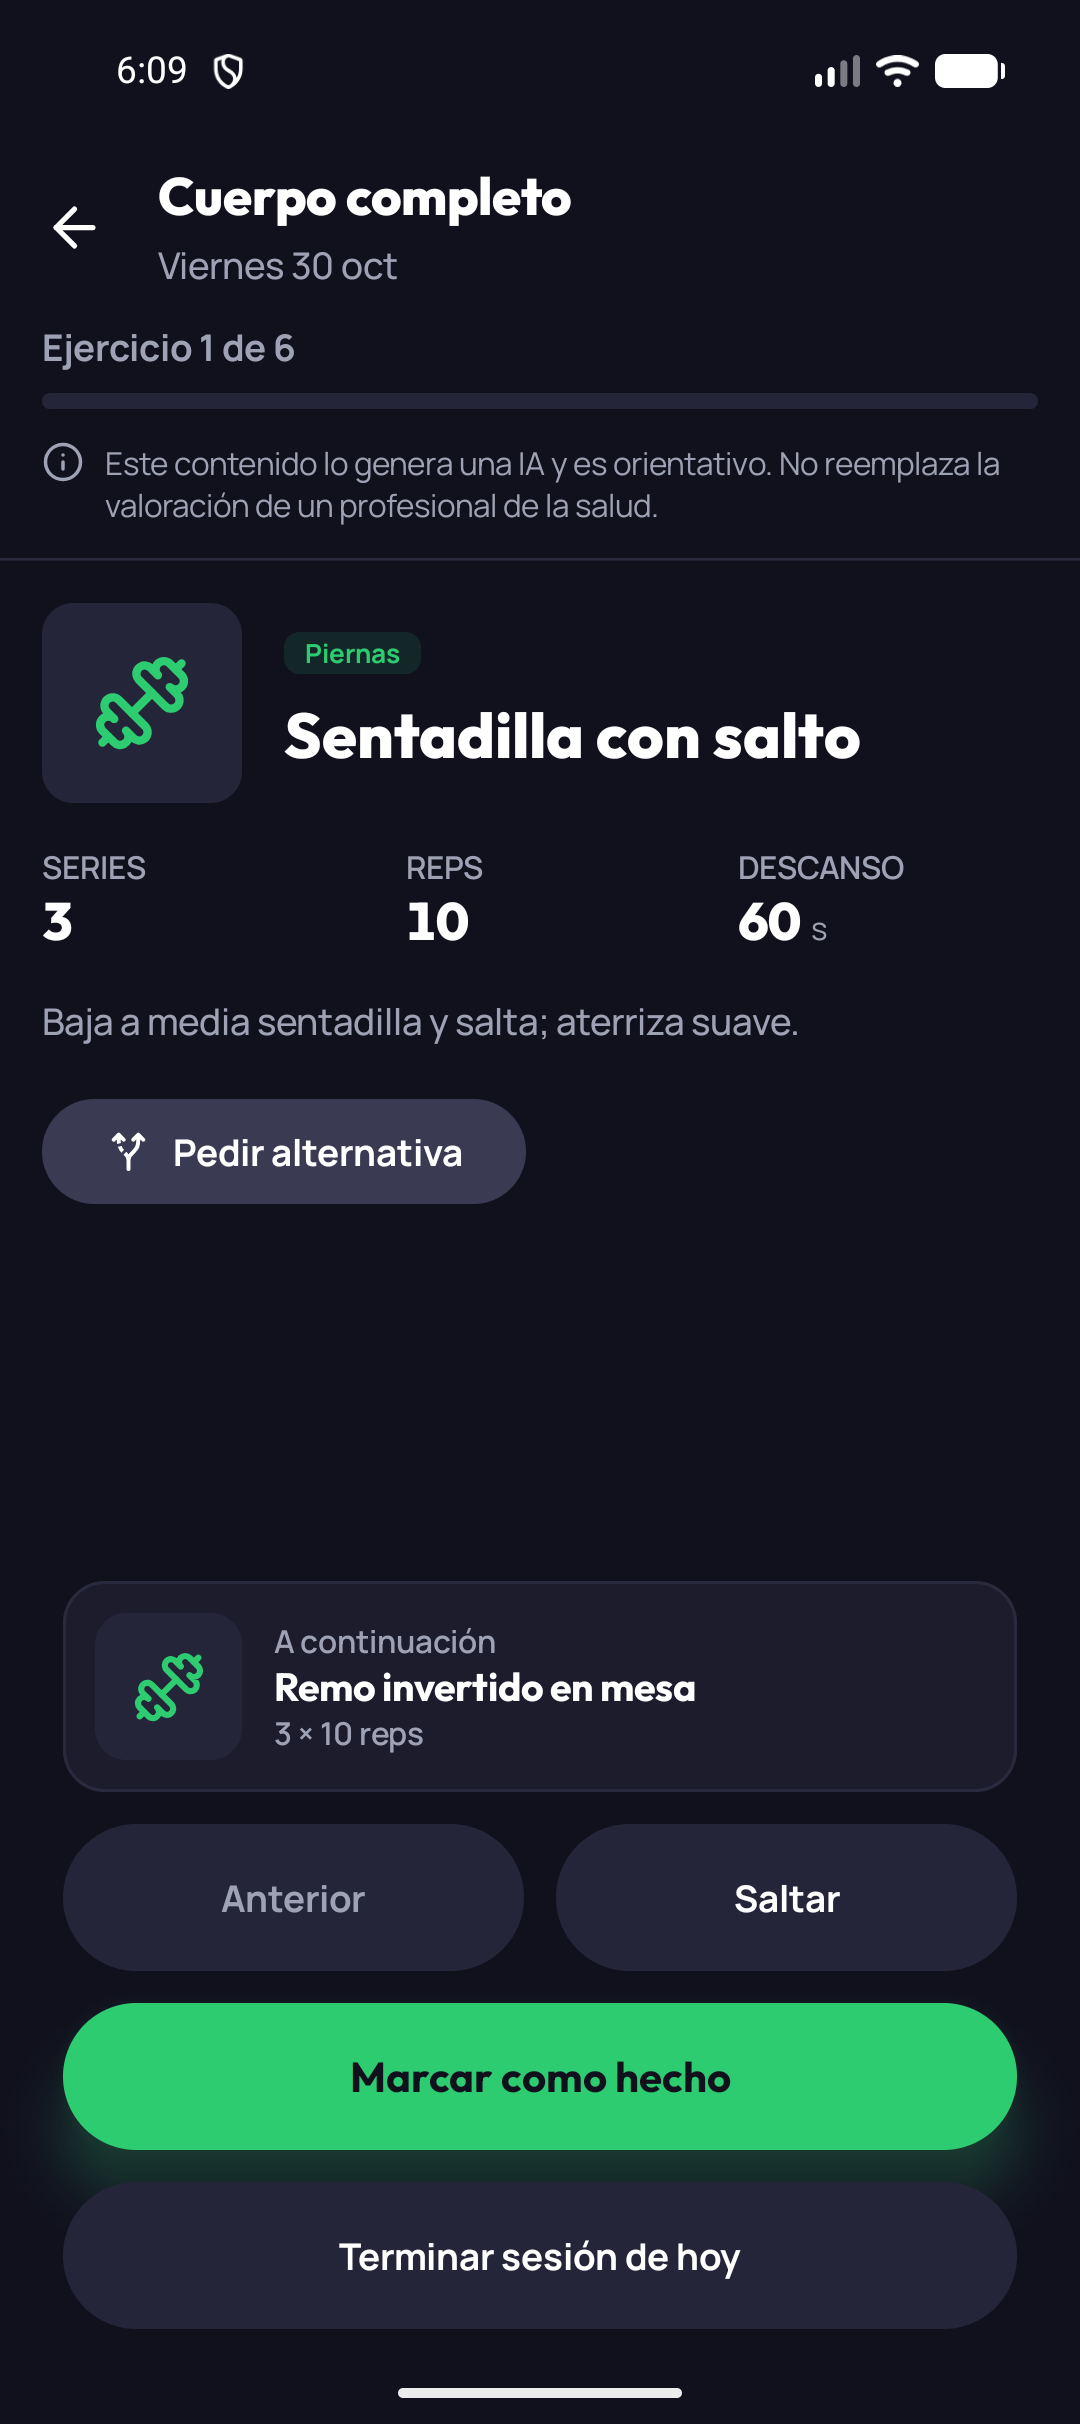
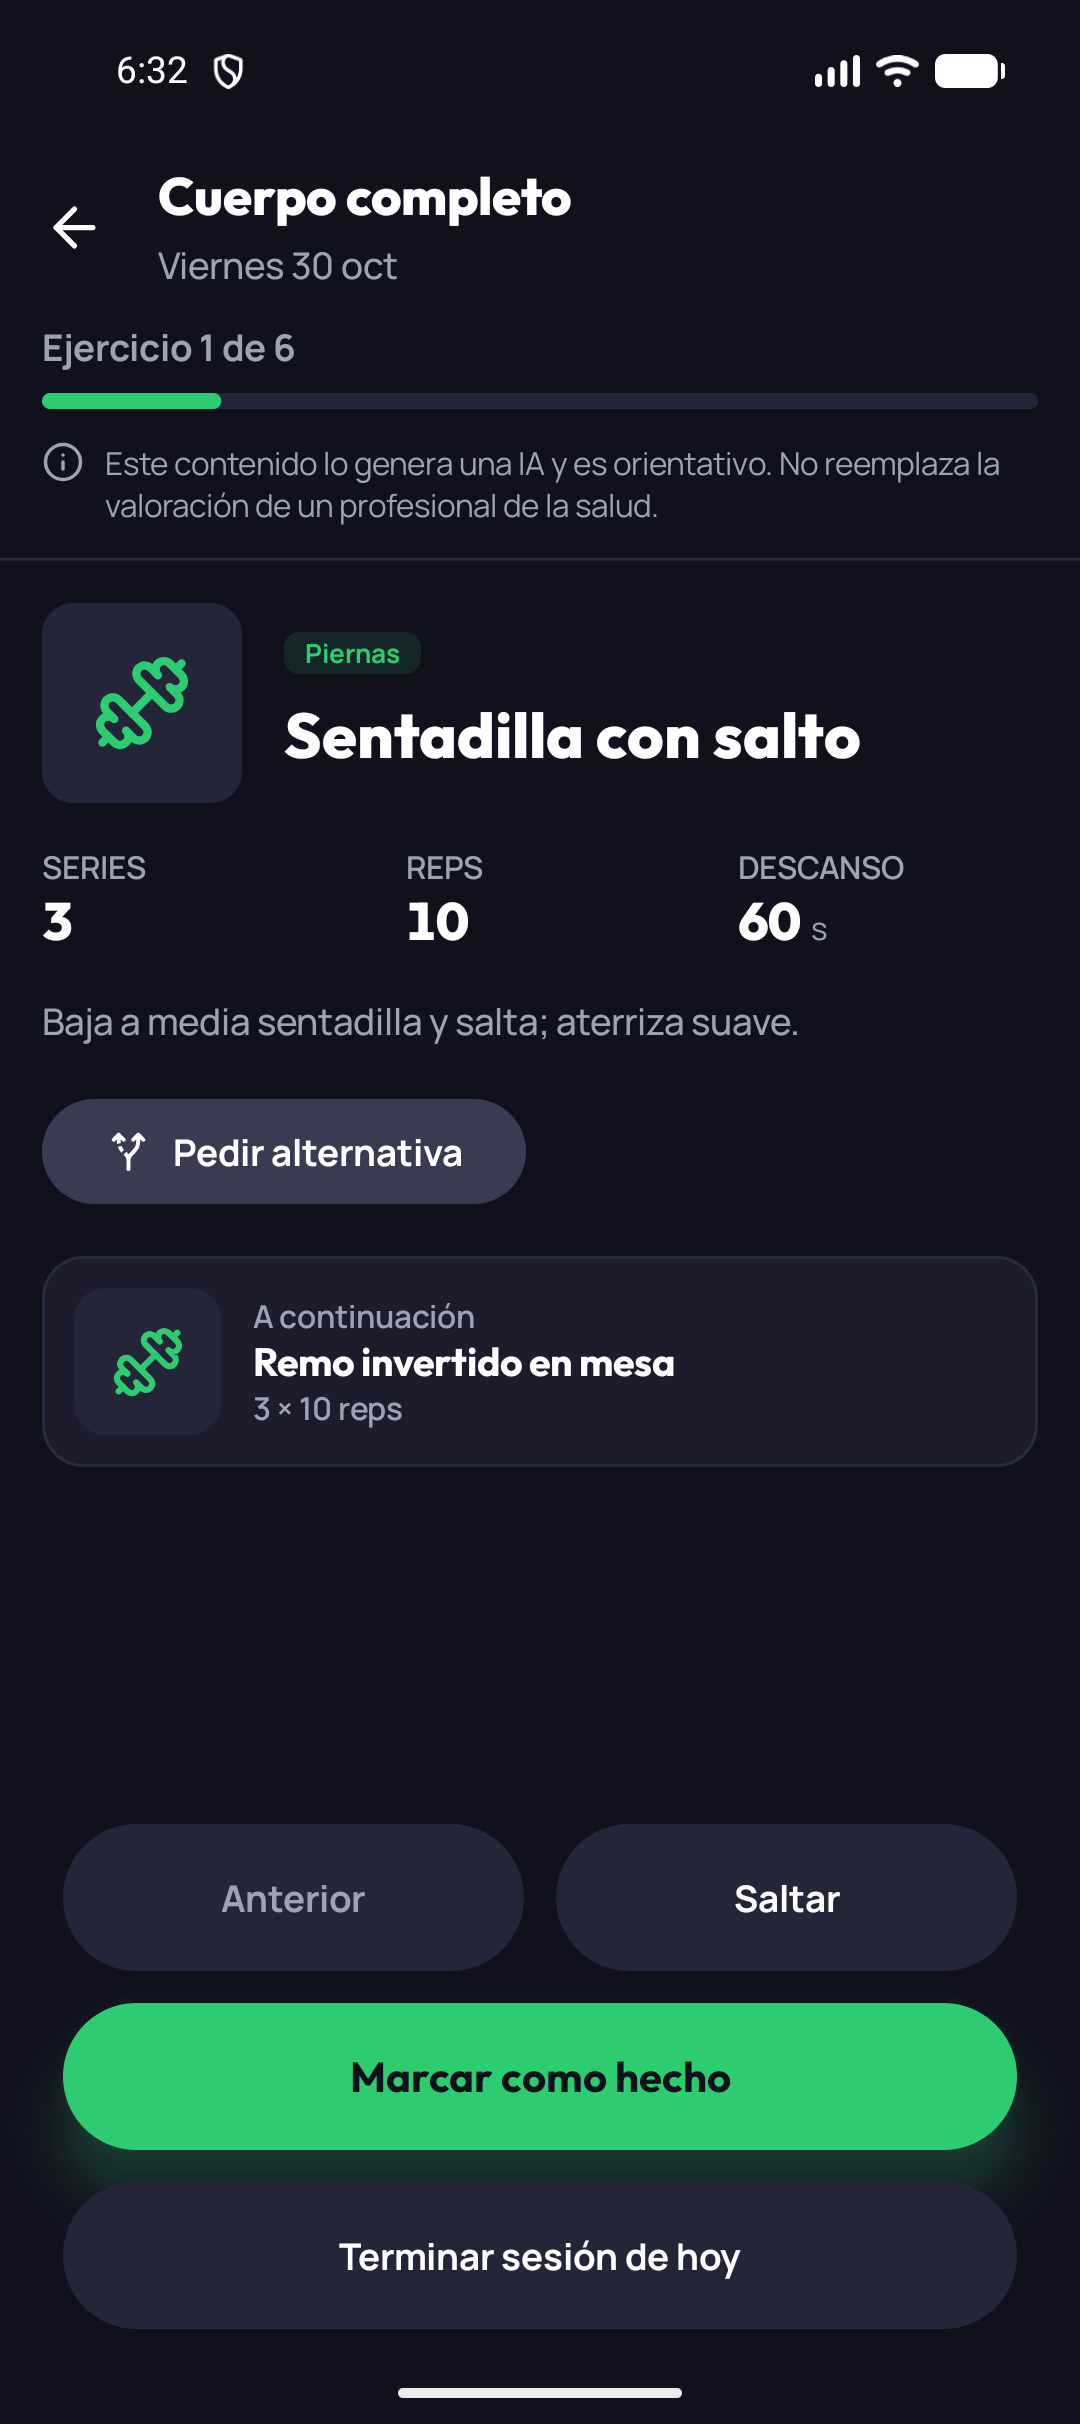
fix(session): one primary action and scrollable up-next

Changed region(s): [[0.0611, 0.6498, 0.6417, 0.7426], [0.0611, 0.526, 0.6111, 0.6188], [0.0306, 0.1547, 0.2139, 0.1856]]

diff --git a/app/src/main/java/com/allfitness/app/routines/RoutineDayScreen.kt b/app/src/main/java/com/allfitness/app/routines/RoutineDayScreen.kt
@@ -105,9 +105,15 @@ data class DayView(
 /** Botones del pie del modo sesión para una página. */
 data class SessionControls(val canMark: Boolean, val canFinish: Boolean, val finishProminent: Boolean)
 
-/** Marcar y terminar siguen a [DayView.editable] (FR-013); terminar se ofrece en toda página (FR-014) y destaca en la última. */
-fun DayView.controls(page: Int): SessionControls =
-    SessionControls(canMark = editable, canFinish = editable, finishProminent = editable && page == day.exercises.lastIndex)
+/**
+ * Marcar y terminar siguen a [DayView.editable] (FR-013); terminar se ofrece en toda página (FR-014) y solo
+ * destaca en la última ya marcada, para que nunca haya dos acciones principales.
+ */
+fun DayView.controls(page: Int): SessionControls = SessionControls(
+    canMark = editable,
+    canFinish = editable,
+    finishProminent = editable && page == day.exercises.lastIndex && day.exercises[page].id in completed,
+)
 
 /** Tras marcar se pasa al siguiente ejercicio; en el último se queda. */
 fun nextPageAfterMark(page: Int, count: Int): Int = (page + 1).coerceIn(0, maxOf(count - 1, 0))
@@ -276,14 +282,29 @@ private fun Session(
         AiNote()
         HorizontalPager(pager, Modifier.weight(1f), key = { exercises[it].id }) { index ->
             val exercise = exercises[index]
-            ExercisePage(exercise, done = exercise.id in view.completed, alternativeEnabled = online, onAlternative = { onAlternative(exercise.id) })
+            ExercisePage(
+                exercise = exercise,
+                done = exercise.id in view.completed,
+                next = exercises.getOrNull(index + 1),
+                alternativeEnabled = online,
+                onAlternative = { onAlternative(exercise.id) },
+                onSkip = { go(index + 1) },
+            )
         }
         SessionFooter(view, page, online, finishing, go, onToggle, onFinish)
     }
 }
 
+/** Una página: el ejercicio y, al final del desplazamiento (no en el pie, que con fuente grande no cabría), el siguiente. */
 @Composable
-private fun ExercisePage(exercise: Exercise, done: Boolean, alternativeEnabled: Boolean, onAlternative: () -> Unit) {
+private fun ExercisePage(
+    exercise: Exercise,
+    done: Boolean,
+    next: Exercise?,
+    alternativeEnabled: Boolean,
+    onAlternative: () -> Unit,
+    onSkip: () -> Unit,
+) {
     Column(
         Modifier
             .fillMaxSize()
@@ -320,6 +341,7 @@ private fun ExercisePage(exercise: Exercise, done: Boolean, alternativeEnabled: 
             Text(exercise.instructions, style = MaterialTheme.typography.bodyMedium, color = MaterialTheme.colorScheme.onSurfaceVariant)
         }
         AlternativeButton(onClick = onAlternative, enabled = alternativeEnabled)
+        if (next != null) UpNext(next, onSkip)
     }
 }
 
@@ -332,8 +354,8 @@ private fun DoneTag() {
 }
 
 /**
- * Pie fijo sobre el fondo: "A continuación", Anterior y Saltar (la alternativa al deslizamiento para TalkBack)
- * y, solo hoy, marcar y terminar (FR-013, FR-014; sin conexión, deshabilitados con aviso: FR-039).
+ * Pie fijo sobre el fondo: Anterior y Saltar (la alternativa al deslizamiento para TalkBack) y, solo hoy,
+ * marcar y terminar (FR-013, FR-014; sin conexión, deshabilitados con aviso: FR-039).
  */
 @Composable
 private fun SessionFooter(
@@ -356,22 +378,22 @@ private fun SessionFooter(
             .padding(horizontal = Spacing.screenEdge, vertical = Spacing.sm),
         verticalArrangement = Arrangement.spacedBy(Spacing.sm),
     ) {
-        exercises.getOrNull(page + 1)?.let { UpNext(it, onSkip = { go(page + 1) }) }
         Row(horizontalArrangement = Arrangement.spacedBy(Spacing.sm)) {
             SecondaryButton(stringResource(R.string.action_previous_exercise), { go(page - 1) }, Modifier.weight(1f), enabled = page > 0)
             SecondaryButton(stringResource(R.string.action_skip), { go(page + 1) }, Modifier.weight(1f), enabled = page < exercises.lastIndex)
         }
         if (controls.canMark) {
-            PrimaryButton(
-                text = stringResource(if (done) R.string.action_unmark_done else R.string.action_mark_done),
-                onClick = {
-                    haptics.performHapticFeedback(if (done) HapticFeedbackType.ToggleOff else HapticFeedbackType.ToggleOn)
-                    onToggle(current.id, !done)
-                    if (!done) go(nextPageAfterMark(page, exercises.size))
-                },
-                modifier = Modifier.fillMaxWidth(),
-                enabled = online,
-            )
+            val toggle = {
+                haptics.performHapticFeedback(if (done) HapticFeedbackType.ToggleOff else HapticFeedbackType.ToggleOn)
+                onToggle(current.id, !done)
+                if (!done) go(nextPageAfterMark(page, exercises.size))
+            }
+            // Desmarcar deshace: va en secundario para que la acción principal siga siendo una sola.
+            if (done) {
+                SecondaryButton(stringResource(R.string.action_unmark_done), toggle, Modifier.fillMaxWidth(), enabled = online)
+            } else {
+                PrimaryButton(stringResource(R.string.action_mark_done), toggle, Modifier.fillMaxWidth(), enabled = online)
+            }
         }
         if (controls.canFinish) {
             val finish = stringResource(R.string.action_finish_session)

diff --git a/app/src/test/java/com/allfitness/app/routines/SessionControlsTest.kt b/app/src/test/java/com/allfitness/app/routines/SessionControlsTest.kt
@@ -2,18 +2,22 @@ package com.allfitness.app.routines
 
 import java.time.DayOfWeek
 import org.junit.Assert.assertEquals
+import org.junit.Assert.assertFalse
 import org.junit.Assert.assertTrue
 import org.junit.Test
 
 class SessionControlsTest {
     private val exercises = listOf("a", "b", "c").map { Exercise(it, it, "Piernas", 3, 10, null, 60, null, "", null) }
 
-    private fun view(finished: Boolean = false, isToday: Boolean = true) =
-        DayView(RoutineDay(DayOfWeek.FRIDAY, DayType.TRAINING, null, exercises), emptySet(), finished, isToday)
+    private fun view(finished: Boolean = false, isToday: Boolean = true, completed: Set<String> = emptySet()) =
+        DayView(RoutineDay(DayOfWeek.FRIDAY, DayType.TRAINING, null, exercises), completed, finished, isToday)
 
     @Test fun todayEditableCanMarkAndFinish() = assertEquals(SessionControls(true, true, false), view().controls(0))
 
-    @Test fun lastPageMakesFinishProminent() = assertTrue(view().controls(2).finishProminent)
+    @Test fun lastPageMakesFinishProminent() = assertTrue(view(completed = setOf("c")).controls(2).finishProminent)
+
+    // Sin marcar el último, "Marcar como hecho" sigue siendo la única acción principal.
+    @Test fun lastPageNotDoneKeepsFinishSecondary() = assertFalse(view().controls(2).finishProminent)
 
     @Test fun readOnlyDayHasNoMarkNorFinish() = assertEquals(SessionControls(false, false, false), view(isToday = false).controls(0))
 
